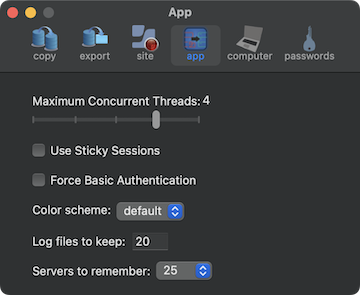
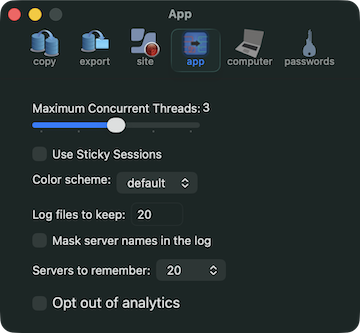
correct opt out

diff --git a/Replicator/Preferences/PreferencesViewController.swift b/Replicator/Preferences/PreferencesViewController.swift
@@ -65,6 +65,13 @@ class PreferencesViewController: NSViewController, NSTextFieldDelegate {
     @IBOutlet weak var colorScheme_button: NSPopUpButton!
     @IBOutlet weak var sourceDestListSize_button: NSPopUpButton!
     
+    @IBOutlet weak var optOut_button: NSButton!
+    
+    @IBAction func optOut_action(_ sender: NSButton) {
+        UserDefaults.standard.set(sender.state == .on, forKey: "optOut")
+        TelemetryDeckConfig.optOut = (sender.state == .on)
+    }
+    
     // computer prefs
     @IBOutlet weak var migrateAsManaged_button: NSButton!
     @IBOutlet weak var prefMgmtAcct_label: NSTextField!
@@ -626,6 +633,8 @@ class PreferencesViewController: NSViewController, NSTextFieldDelegate {
             maskServerNames_button.state = NSControl.StateValue(userDefaults.integer(forKey: "maskServerNames"))
             let currentTitle = userDefaults.string(forKey: "colorScheme")
             colorScheme_button.selectItem(withTitle: currentTitle ?? "default")
+            
+            optOut_button.state = UserDefaults.standard.bool(forKey: "optOut") ? .on : .off
         }
         
         _ = readSettings()

diff --git a/Replicator/ViewController.swift b/Replicator/ViewController.swift
@@ -6047,6 +6047,7 @@ class ViewController: NSViewController, URLSessionDelegate, NSTabViewDelegate, N
     override func viewDidLoad() {
         logFunctionCall()
         super.viewDidLoad()
+        TelemetryDeckConfig.optOut = UserDefaults.standard.bool(forKey: "optOut")
                 
         srcSrvTableView.delegate = self
         srcSrvTableView.tableColumns.forEach { (column) in

diff --git a/README.md b/README.md
@@ -11,7 +11,7 @@ A tool to synchronize objects between Jamf Pro servers. Export objects and save 
 
 ![image](./Replicator/images/replicator1.png "Replicator")
 
-By default the application will submit basic hardware, OS, and jamfCPR application usage to [TelemetryDeck](https://telemetrydeck.com). The data is sent anamously and used to aid in the development of the application. To opt out of data the sending of data click 'Opt out of analytics' at the bottom of the 'About Replicator' window.
+By default the application will submit basic hardware, OS, and jamfCPR application usage to [TelemetryDeck](https://telemetrydeck.com). The data is sent anamously and used to aid in the development of the application. To opt out of data the sending of data click 'Opt out of analytics' at the bottom of the Settings --> App window.
 
 Replicate items from one Jamf server, or XML file(s), to another.  If an object (based on name) exists on both source and destination, the destination object will be updated with values from the source server.
 </br></br>

diff --git a/ChangeLog.md b/ChangeLog.md
@@ -1,5 +1,9 @@
 # Replicator - Change Log
 
+**v8.5.2**: 2026-01-05<br>
+Correct instructions to opt out of telemetry data.
+To opt out of data the sending of data click 'Opt out of analytics' at the bottom of the Settings --> App window.
+
 **v8.5.1**: 2026-01-04<br>
 Address issue removing jamf users/groups. 
 Starting with version 8.5.1 the application will submit basic hardware, OS, and Replicator application usage to [TelemetryDeck](https://telemetrydeck.com). The data is sent anamously and used to aid in the development of the application. To opt out of data the sending of data click 'Opt out of analytics' at the bottom of the 'About Replicator' window.
